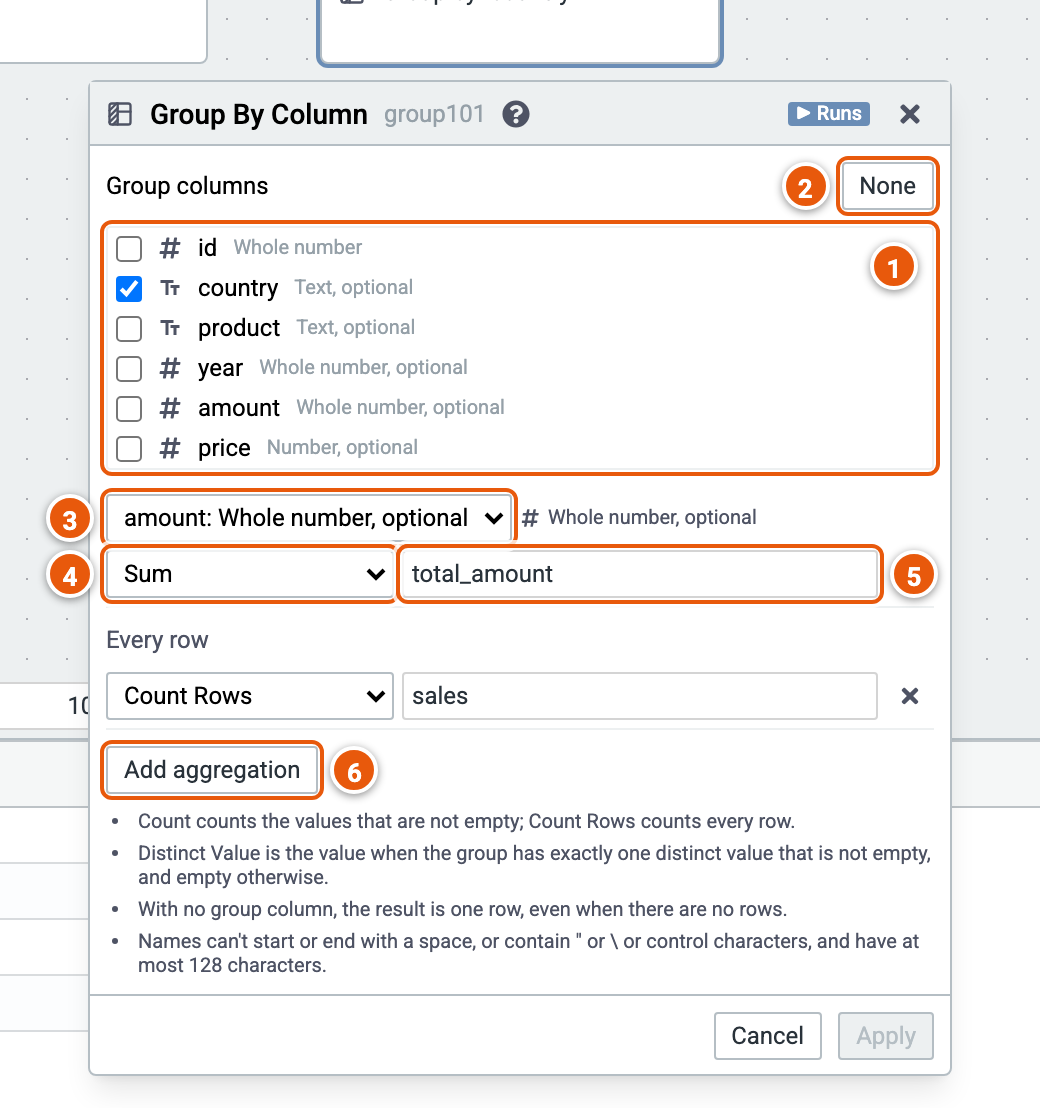
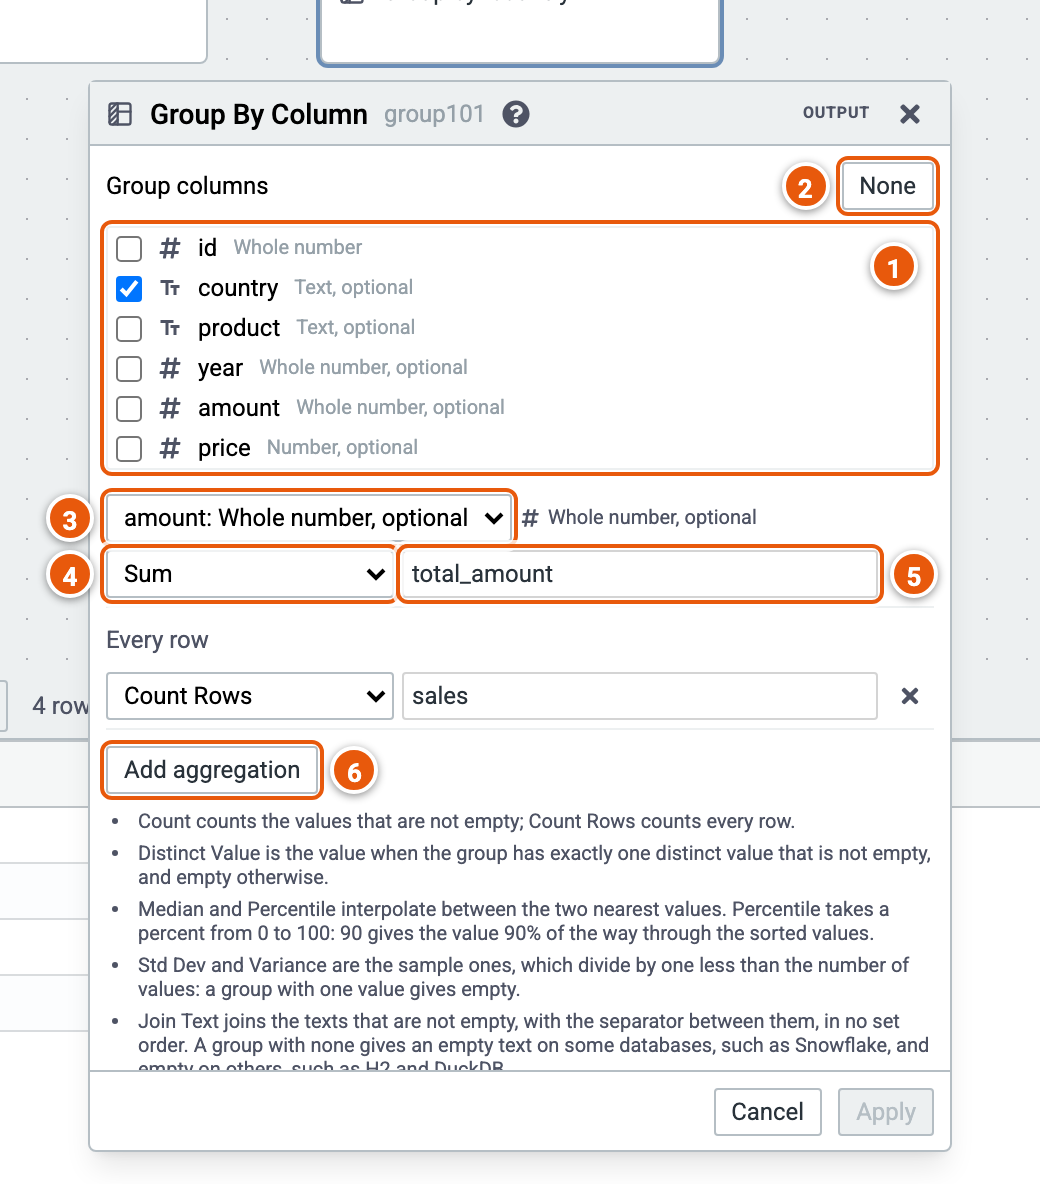
docs(cube): the user guide's run words, and its images made again
Run Query, the Output label, Set as output and Run history in the
results, overview and JSON pages (the Runs heading is now Run history,
and json.md's link follows it); the overview's results callouts
renumbered left to right; the screenshot scripts click Run Query and Set
as output; every image made again with them.

diff --git a/packages/legend-application-analytics-e2e/src/user-guide/CubeResults.screenshots.ts b/packages/legend-application-analytics-e2e/src/user-guide/CubeResults.screenshots.ts
@@ -27,7 +27,7 @@ import {
 
 // The images of docs/user-guide/cube/results.md, on the example "Top
 // customers by orders": a cell's menu, drilling down, the group rows'
-// settings, a column's format, Runs, and the grid in Local mode.
+// settings, a column's format, Run history, and the grid in Local mode.
 
 const RESULT_IMAGES = join(CUBE_GUIDE_IMAGES, 'results');
 
@@ -194,16 +194,16 @@ test('Legend Cube: the results', async ({ page }) => {
   await clearCallouts(page);
   await formatDialog.getByRole('button', { name: 'Cancel' }).click();
 
-  // Runs
-  await page.getByRole('button', { name: /^Runs/u }).click();
+  // Run history
+  await page.getByRole('button', { name: /^Run history/u }).click();
   const runs = page.getByTestId('legend-cube__run-stats');
   await runs.waitFor();
   await page.mouse.move(5, 895);
   await markCallouts(page, [
     {
       n: 1,
-      // the oldest run, the first Execute, which has room below it
-      targets: [runs.getByText('Execute', { exact: true })],
+      // the oldest run, the first one, which has room below it
+      targets: [runs.getByText('Run', { exact: true })],
       at: 'left',
     },
     {
@@ -224,7 +224,7 @@ test('Legend Cube: the results', async ({ page }) => {
   ]);
   await save('runs.png', [runs], 36);
   await clearCallouts(page);
-  await page.getByRole('button', { name: /^Runs/u }).click();
+  await page.getByRole('button', { name: /^Run history/u }).click();
 
   // Local mode
   await page.getByRole('button', { name: 'Local', exact: true }).click();

diff --git a/packages/legend-application-analytics-e2e/src/user-guide/CubeEditorOverview.screenshots.ts b/packages/legend-application-analytics-e2e/src/user-guide/CubeEditorOverview.screenshots.ts
@@ -84,18 +84,19 @@ test('Legend Cube: the editor overview', async ({ page }) => {
     },
     {
       n: 12,
-      targets: [tool('Execute'), toolbar.getByText(/^\d+ rows? in /u)],
-      at: 'above',
-    },
-    {
-      n: 13,
       targets: [tool('Server-side'), tool('Local')],
       at: 'above',
     },
+    { n: 13, targets: [toolbar.getByText(/^\d+ rows? in /u)], at: 'above' },
     { n: 14, targets: [tool('Show SQL')], at: 'above' },
-    { n: 15, targets: [tool(/^Runs/u)], at: 'left' },
+    { n: 15, targets: [tool(/^Run history/u)], at: 'above' },
     {
       n: 16,
+      targets: [toolbar.getByLabel('Row limit'), tool('Run Query')],
+      at: 'above',
+    },
+    {
+      n: 17,
       targets: [
         page.locator('.ag-header-cell').filter({ hasText: 'ORDER_COUNT' }),
       ],
@@ -122,7 +123,7 @@ test('Legend Cube: the editor overview', async ({ page }) => {
       at: 'left',
     },
     { n: 2, targets: [editor.getByLabel('Help')], at: 'above' },
-    { n: 3, targets: [editorButton('Run this step')], at: 'above' },
+    { n: 3, targets: [editorButton('Set as output')], at: 'above' },
     {
       n: 4,
       targets: [editor.getByRole('button', { name: 'Close the editor' })],

diff --git a/packages/legend-application-analytics-e2e/src/user-guide/CubeSteps.screenshots.ts b/packages/legend-application-analytics-e2e/src/user-guide/CubeSteps.screenshots.ts
@@ -290,7 +290,7 @@ const openStep = async (page: Page, id: string): Promise<Locator> => {
 
 /** Runs the cube, so its steps' editors know their input columns */
 const execute = async (page: Page): Promise<void> => {
-  await page.getByRole('button', { name: 'Execute', exact: true }).click();
+  await page.getByRole('button', { name: 'Run Query', exact: true }).click();
   await page.getByText(/^\d+ rows? in /u).waitFor();
 };
 

diff --git a/docs/user-guide/cube/editor-overview.md b/docs/user-guide/cube/editor-overview.md
@@ -31,25 +31,27 @@ Click the image to see it full size.
 4. **Add Items**: the palette's sources and steps, as a menu.
 5. **Examples**: ready-made cubes on sample data, to try things out.
 6. **Undo** and **Redo**: every change, opening an example included (Ctrl+Z and Ctrl+Shift+Z, or Cmd on a Mac).
-7. **Show Pure**: the Pure query that Execute runs.
+7. **Show Pure**: the Pure query that runs, up to the output step.
 8. **Hide graph**: more room for the results; **Show graph** brings it back.
 
 ## The graph
 
 9. **A step**: click it to edit it. Its editor opens beside it (see [A step's editor](#a-steps-editor), and each step's
    page under [Steps](./steps/index.md)).
-10. **Runs**: marks the step Execute runs up to. A step's editor has **Run this step** to move it.
+10. **Output**: marks the output step, the step Run Query runs up to. A step's menu and editor have **Set as output**
+    to move it.
 11. **Zoom in**, **zoom out** and **fit the graph to the view**.
 
 ## The results
 
-12. **Execute** runs the query (F9) and shows its rows. **Rows** caps how many come back. Then how many rows came
-    back, and how long the run took.
-13. **Server-side** or **Local**: with Server-side, each sort and drill-down in the grid runs on the engine, over every
+12. **Server-side** or **Local**: with Server-side, each sort and drill-down in the grid runs on the engine, over every
     row of the query; with Local, the grid groups, pivots and filters the rows already fetched, in the browser.
+13. How many rows came back, and how long the run took.
 14. **Show SQL**: the SQL the run sent to the database.
-15. **Runs**: the latest runs, fetches and exports, each with its SQL.
-16. **A column's menu** (⋮): sort, pin, autosize, choose the columns shown, or reset them. Right-click a cell for
+15. **Run history**: the latest runs, fetches and exports, each with its SQL.
+16. **Rows** and **Run Query**: Run Query (F9) runs the query up to the output step and shows its rows; **Rows** caps
+    how many come back. While the query runs, the button is **Stop**.
+17. **A column's menu** (⋮): sort, pin, autosize, choose the columns shown, or reset them. Right-click a cell for
     more: drill down by its column; sort, group or filter by it, as a new step; format a number column; copy; or
     export the rows. See [The results](./results.md).
 
@@ -61,7 +63,7 @@ Click a step on the graph to open its editor. This is the Group step's:
 
 1. The step's kind, and its id.
 2. **?**: hover over it to see what the step does.
-3. **Run this step**: Execute runs up to this step, and shows its rows.
+3. **Set as output**: makes this the output step, so Run Query runs up to it and shows its rows.
 4. **Close** the editor.
 5. **None**: untick every group column (one row for all the rows).
 6. The columns to group by.

diff --git a/docs/user-guide/cube/results.md b/docs/user-guide/cube/results.md
@@ -5,8 +5,9 @@ sidebar_position: 4
 
 # The results
 
-**Execute** (F9) runs the query up to the step marked **Runs**, and its rows show in the grid below the graph. **Rows**
-caps how many come back. After a change, the results say they are stale until you execute again.
+**Run Query** (F9), at the right end of the bar above the grid, runs the query up to the step marked **Output**, and
+its rows show in the grid below the graph. **Rows**, beside it, caps how many come back. After a change, the results
+say they are out of date until you run the query again.
 
 The pictures below use the example **Top customers by orders**.
 
@@ -24,8 +25,8 @@ Right-click a cell:
 [![A cell's menu, its parts numbered](./images/results/cell-menu.png)](./images/results/cell-menu.png)
 
 1. **Drilldown by** the cell's column: see [Drilling down](#drilling-down).
-2. **Sort by**, **Group by** or **Filter by** the cell's column: each adds that step after the step that runs, as one
-   change to undo; Filter by keeps the rows holding the cell's value. Nothing runs until you execute.
+2. **Sort by**, **Group by** or **Filter by** the cell's column: each adds that step after the output step, as one
+   change to undo; Filter by keeps the rows holding the cell's value. Nothing runs until you run the query.
 3. **Format Column…**: how a number column's values show (greyed out on other columns); see
    [Formatting a column](#formatting-a-column).
 4. **Autosize All Columns** to their contents, or **Reset Columns** to how they were.
@@ -67,18 +68,18 @@ In Server-side mode, each level, and each group opened, runs on the engine.
 4. **Apply to every number column** at once.
 5. **Preview** of the format.
 
-## Runs
+## Run history
 
-**Runs** lists the latest runs, fetches and exports of the page, newest first; the latest 15 are kept.
+**Run history** lists the latest runs, fetches and exports of the page, newest first; the latest 15 are kept.
 
-[![Runs, its parts numbered](./images/results/runs.png)](./images/results/runs.png)
+[![Run history, its parts numbered](./images/results/runs.png)](./images/results/runs.png)
 
 1. **What ran**, when, and how long it took. **▸ SQL** under it shows the SQL it sent to the database.
 2. **Show Pure**: the Pure query it ran.
 3. **Copy JSON**: the query as it was sent to the engine, to debug it.
 4. **Copy SQL**.
 
-**Show SQL**, beside Execute, shows the SQL of the last run.
+**Show SQL**, beside the run's row count, shows the SQL of the last run.
 
 ## Local mode
 

diff --git a/docs/user-guide/cube/index.md b/docs/user-guide/cube/index.md
@@ -13,5 +13,5 @@ the graph. The query it runs is Pure, and Show Pure shows it.
 
 - [The editor](./editor-overview.md): every part of the page, numbered on a screenshot.
 - [Steps](./steps/index.md): each step, and its editor's settings.
-- [The results](./results.md): the grid, drilling down, formats, exports and Runs.
+- [The results](./results.md): the grid, drilling down, formats, exports and Run history.
 - [JSON columns](./json.md): reading, exploring and exploding JSON.

diff --git a/docs/user-guide/cube/json.md b/docs/user-guide/cube/json.md
@@ -37,7 +37,7 @@ types, and offers the columns each field can become.
 4. **The columns it can become**: tick one or more. An array also offers **Explode Array**, a row for each element.
 5. **Add** the ticked columns: an Extend step, and an Explode Array step for an array, added as one change to undo.
 
-The read is listed in [Runs](./results.md#runs), and can be stopped.
+The read is listed in [Run history](./results.md#run-history), and can be stopped.
 
 ## Parse as JSON
 
